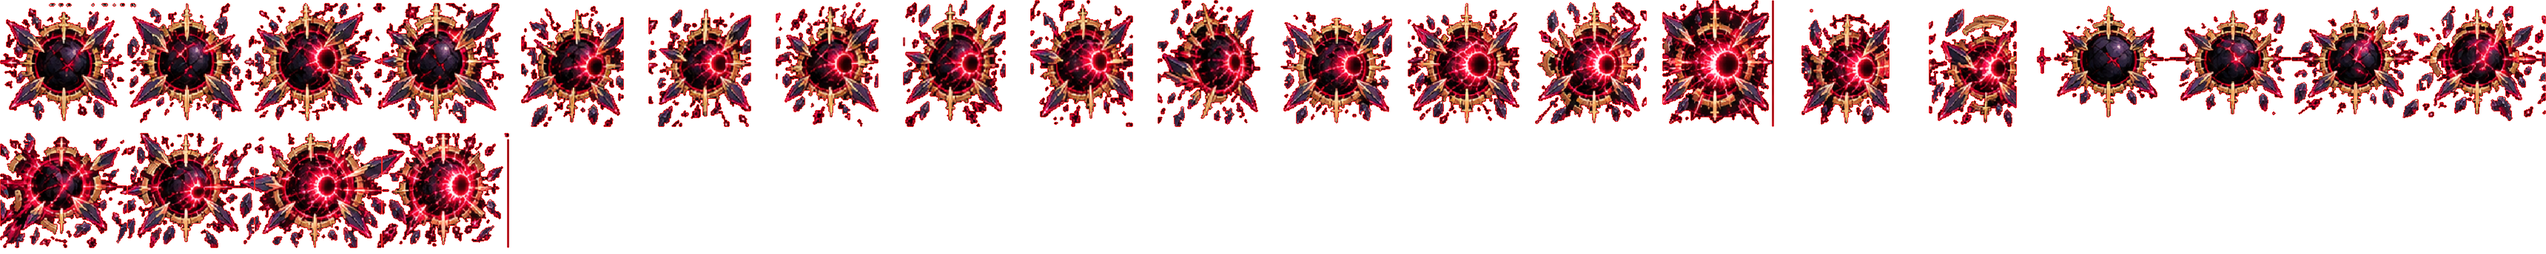
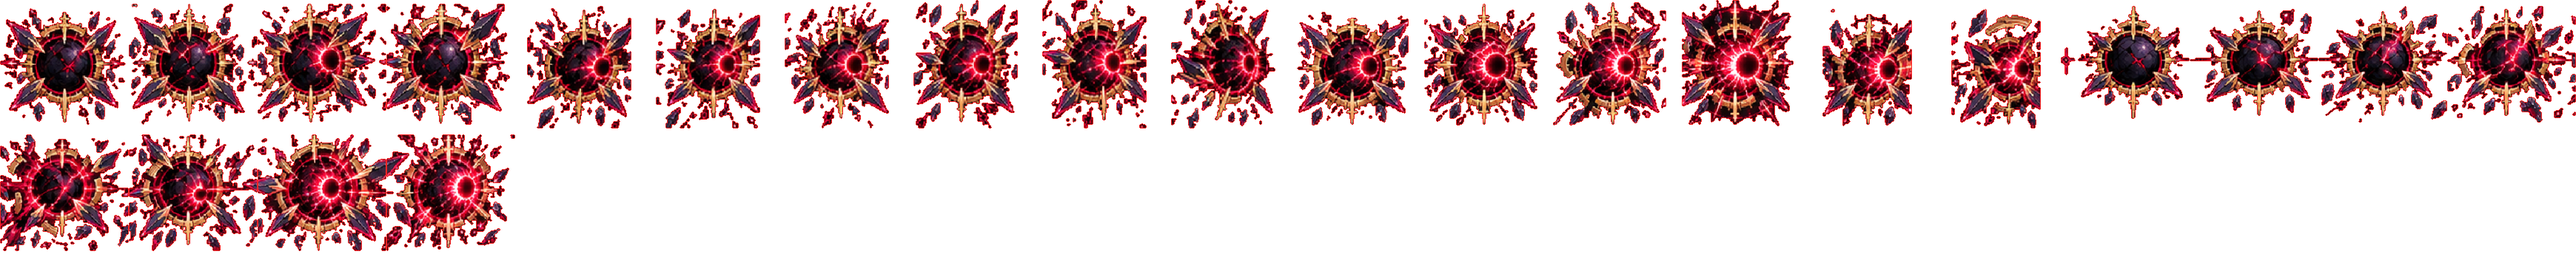
feat: 식광 본체 그림 찌꺼기 제거, 식광 패턴 연출(빨아들임·터짐·떨어지는 흑점·칼날 개화·핵 붕괴·침식권)

diff --git a/src/bosses/patterns.ts b/src/bosses/patterns.ts
@@ -1250,11 +1250,13 @@ class Bombard extends Timed {
   constructor(c: PatternCtx) {
     super(c);
     const shell = c.art('shell');
+    const meteor = c.art('meteor');
     for (let i = 0; i < c.v('shells'); i++) {
       const step = i * c.v('stepSec');
       this.at(step, () => {
         const at = predict(c, c.v('delaySec'), c.v('spread'));
         blast(c, at, c.v('radius'), c.v('delaySec'), c.v('damage'));
+        if (meteor) this.fall(meteor, at);
         if (shell) {
           const p = c.boss.pos();
           lob(c.host.scene, shell, { x: p.x, y: p.y - c.boss.radius() * 0.8 }, at, c.v('delaySec') * 0.95, 48, 14, undefined, 8, c.boss.fxColor);
@@ -1263,6 +1265,27 @@ class Bombard extends Timed {
         this.recoilAt = this.t;
       });
     }
+  }
+
+  /** 흑점: 하늘에서 예고 원으로 곧장 떨어지며 꼬리를 남긴다 */
+  private fall(ref: SpriteRef, at: Vec2): void {
+    const c = this.c;
+    const scene = c.host.scene;
+    const img = scene.add.sprite(at.x, at.y - 150, ref.spriteKey).setDepth(7).setBlendMode('ADD');
+    img.setDisplaySize(ref.size * 1.6, (ref.size * 1.6 * img.height) / Math.max(1, img.width));
+    let n = 0;
+    scene.tweens.add({
+      targets: img,
+      y: at.y,
+      duration: c.v('delaySec') * 1000 * 0.95,
+      ease: 'Quad.easeIn',
+      onUpdate: () => {
+        if (n++ % 2) return;
+        const d = scene.add.circle(img.x, img.y - 4, 3, c.boss.fxColor, 0.7).setDepth(6).setBlendMode('ADD');
+        scene.tweens.add({ targets: d, alpha: 0, scale: 0.3, duration: 220, onComplete: () => d.destroy() });
+      },
+      onComplete: () => img.destroy(),
+    });
   }
 
   protected override tick(): void {
@@ -1447,11 +1470,61 @@ class DoomFault extends Heavy {
 
 // ---------- 식광 ----------
 
-/** 그림자 추적: 발밑 장판이 잠깐 따라오다 고정되고, 고정된 뒤 터진다 */
-class ShadowChase extends Timed {
-  constructor(c: PatternCtx) {
+/**
+ * 구체 보스 몸짓 (식광): gatherSec 동안 둘레의 빛을 빨아들이며 움츠러들고(떨림),
+ * release() 때 부풀며 터졌다 돌아온다. 그 뒤엔 천천히 맥동한다.
+ */
+abstract class Orb extends Timed {
+  private releaseAt = -1;
+  private moteT = 0;
+
+  constructor(
+    c: PatternCtx,
+    private readonly gatherSec: number,
+    private readonly gatherR = 2.6,
+  ) {
     super(c);
+  }
+
+  protected release(size = 1): void {
+    const c = this.c;
+    this.releaseAt = this.t;
+    const p = c.boss.pos();
+    shockRing(c.host.scene, p, c.boss.radius() * 2.4 * size, c.boss.fxColor, 0.35, 3);
+    burst(c.host.scene, c.host.rng, p, c.boss.fxColor, Math.round(18 * size), [100, 200], 0.35, undefined, c.boss.radius() * 0.6);
+    shake(c.host.scene, size > 1 ? 'medium' : 'light');
+  }
+
+  protected override tick(dt: number): void {
+    const c = this.c;
+    c.boss.setVelocity(0, 0);
+    if (this.releaseAt >= 0) {
+      const r = 1 - easeOut((this.t - this.releaseAt) / 0.4);
+      c.boss.shape(1 + 0.18 * r, 1 + 0.18 * r, 0);
+      return;
+    }
+    if (this.t < this.gatherSec) {
+      const e = easeOut(this.t / this.gatherSec);
+      const wob = Math.sin(this.t * 55) * 0.02 * e;
+      c.boss.shape(1 - 0.1 * e + wob, 1 - 0.1 * e - wob, 0);
+      this.moteT -= dt;
+      if (this.moteT <= 0) {
+        this.moteT = 0.045;
+        motes(c.host.scene, c.host.rng, c.boss.pos(), c.boss.fxColor, 3, c.boss.radius() * this.gatherR, 0.35);
+      }
+      return;
+    }
+    const b = Math.sin(this.t * 5) * 0.025;
+    c.boss.shape(1 + b, 1 + b, 0);
+  }
+}
+
+/** 그림자 추적: 발밑 장판이 잠깐 따라오다 고정되고, 고정된 뒤 터진다 */
+class ShadowChase extends Orb {
+  constructor(c: PatternCtx) {
+    super(c, c.v('followSec') + c.v('lockSec'));
     c.host.addHazard(new FollowBlast(c.host.scene, c.host.playerPos(), c.v('radius'), c.v('speed'), c.v('followSec') + c.v('lockSec'), c.v('damage'), c.boss.color, c.v('lockSec'), { track: c.art('followTrack'), lock: c.art('followLock'), hit: c.art('followHit') }));
+    this.at(c.v('followSec') + c.v('lockSec'), () => this.release(0.8));
   }
 }
 
@@ -1468,6 +1541,8 @@ class AimFan extends Timed {
       const a = angleTo(p, c.host.playerPos());
       this.angle = a;
       fan(c, p, a, c.v('bullets'), c.v('spreadDeg'), c.v('speed'), c.v('range'), c.v('damage'), c.v('refractable') > 0);
+      const bloom = c.art('release');
+      if (bloom) playFx(c.host.scene, bloom, p.x, p.y, { w: c.boss.radius() * 3.2, depth: 6 });
       // 부채꼴로 쏟아지는 순간: 그 방향 불티 + 충격파
       burst(c.host.scene, c.host.rng, p, c.boss.fxColor, 14, [100, 190], 0.3, { angle: a, spread: rad(c.v('spreadDeg')) }, c.boss.radius() * 0.6);
       shockRing(c.host.scene, p, c.boss.radius() * 1.8, c.boss.fxColor, 0.25, 2);
@@ -1492,19 +1567,26 @@ class AimFan extends Timed {
   }
 }
 
-/** 광역 잠식·일식: 큰 폭발 예고, 표시된 안전 원 안에서만 피한다 */
-class SafeCircle extends Timed {
+/** 광역 잠식·일식: 큰 폭발 예고, 표시된 안전 원 안에서만 피한다. 방 전체의 빛을 빨아들였다가 터뜨린다 */
+class SafeCircle extends Orb {
   constructor(c: PatternCtx) {
-    super(c);
+    super(c, c.v('delaySec'), 5);
     safeBlast(c, c.v('safeZones'), c.v('safeRadius'), c.v('delaySec'), c.v('damage'));
+    this.at(c.v('delaySec'), () => this.release(1.6));
   }
 }
 
-/** 중력 붕괴: 플레이어를 끌어당긴 뒤 중심 폭발. 인력에 맞서 위험 반경 밖으로 */
-class GravityCollapse extends Timed {
+/** 중력 붕괴: 플레이어를 끌어당긴 뒤 중심 폭발. 인력에 맞서 위험 반경 밖으로. 빨아들이다 핵이 무너지며 터진다 */
+class GravityCollapse extends Orb {
   constructor(c: PatternCtx) {
-    super(c);
+    super(c, c.v('pullSec'), 4);
     c.host.addHazard(new DelayedBlast(c.host.scene, c.boss.pos(), c.v('radius'), c.v('pullSec'), c.v('damage'), c.boss.color, { warn: c.art('blastWarn'), hit: c.art('blastHit') }));
+    this.at(c.v('pullSec'), () => {
+      const p = c.boss.pos();
+      const core = c.art('collapse');
+      if (core) playFx(c.host.scene, core, p.x, p.y, { w: c.v('radius') * 2.2, depth: 7 });
+      this.release(1.5);
+    });
   }
 
   protected override tick(dt: number): void {

diff --git a/docs/ASSETS.md b/docs/ASSETS.md
@@ -8,7 +8,7 @@
 - 애니메이션(플레이어·적): `"anims": { "idle": { "from", "to", "fps" }, "move": { ... } }`(프레임 번호 0부터). 그림은 오른쪽을 보게 그리고(왼쪽이면 `"facing": "left"`), 움직이는 방향에 따라 좌우로 뒤집는다.
 - item·icon은 게임 화면이 아니라 카드·인벤토리·HUD 아이콘이다. tile은 한 장을 반복해서 깐다(문은 잠겼을 때만 보인다).
 
-전체 497개 · 그림 있음 484개
+전체 501개 · 그림 있음 488개
 
 ## player (3)
 
@@ -64,7 +64,7 @@
 | 키 | 이름 | 권장 크기 | 기준점 | 지금 색 | 그림 |
 | --- | --- | --- | --- | --- | --- |
 | `fx_golem_laser` | 고대병기의 코어 (fx) | 12×12 | center | #a05aff | mku/fx_golem_laser.png (1프레임) |
-| `fx_eclipse_meteor` | 식광의 핵 (fx) | 10×10 | center | #ff3a4a | mku/fx_eclipse_meteor.png (1프레임) |
+| `fx_eclipse_meteor` | 식광의 핵 (fx) 외 1곳 | 10×10 | center | #ff3a4a | mku/fx_eclipse_meteor.png (1프레임) |
 | `projectile_arrow` | 곡궁 (fx) | 3×3 | center | #c8a070 | mku/projectile_arrow.png (1프레임) |
 | `projectile_zephyr_arrow` | 서풍 (fx) | 3×3 | center | #7ae8f0 | mku/projectile_zephyr_arrow.png (1프레임) |
 | `fx_soul_burst` | 소울 칼리버 (fx) | 20×20 | center | #c060ff | mku/fx_soul_burst.png (1프레임) |
@@ -471,7 +471,7 @@
 | `tile_floor_c3_v1` | 방 바닥 (3장 변형) | 16×16 | center | #1a0c0e | mku/tile_floor_c3_v1.png (1프레임) |
 | `tile_floor_c3_v2` | 방 바닥 (3장 변형) | 16×16 | center | #1a0c0e | mku/tile_floor_c3_v2.png (1프레임) |
 
-## fx (96)
+## fx (100)
 
 | 키 | 이름 | 권장 크기 | 기준점 | 지금 색 | 그림 |
 | --- | --- | --- | --- | --- | --- |
@@ -532,6 +532,10 @@
 | `fx_golem_fault_hit` | 마기골렘 (doomFault.blastHit) | 25×25 | center | #a03ae0 | mku/fx_golem_fault_hit.png (1프레임) |
 | `fx_golem_rage_aura` | 마기골렘 (layer) | 45×45 | center | #a03ae0 | mku/fx_golem_rage_aura.png (1프레임) |
 | `fx_golem_rage_core` | 마기골렘 (layer) | 20×20 | center | #a03ae0 | mku/fx_golem_rage_core.png (1프레임) |
+| `fx_eclipse_light_rain` | 식광 (sunspotFall.blastHit) | 40×40 | center | #ff3a4a | mku/fx_eclipse_light_rain.png (4프레임) |
+| `fx_eclipse_blade_bloom` | 식광 (orbitCut.release) 외 1곳 | 40×40 | center | #ff3a4a | mku/fx_eclipse_blade_bloom.png (4프레임) |
+| `fx_eclipse_core_collapse` | 식광 (gravityCollapse.collapse) | 45×45 | center | #ff3a4a | mku/fx_eclipse_core_collapse.png (4프레임) |
+| `fx_eclipse_erosion_ring` | 식광 (wideErosion.safeHit) | 80×80 | center | #ff3a4a | mku/fx_eclipse_erosion_ring.png (4프레임) |
 | `fx_eclipse_warning` | 식광 (blastWarn) | 30×30 | center | #ff3a4a | mku/fx_eclipse_warning.png (3프레임) |
 | `fx_eclipse_impact` | 식광 (blastHit) | 35×35 | center | #ff3a4a | mku/fx_eclipse_impact.png (2프레임) |
 | `fx_eclipse_blade` | 식광 (bullet) | 7×7 | center | #ff3a4a | mku/fx_eclipse_blade.png (4프레임) |

diff --git a/docs/DECISIONS.md b/docs/DECISIONS.md
@@ -685,3 +685,5 @@
 - 마기카이저 회전·불안정 레이저: 광선 그림이 초승달 베기(fx_kaiser_sweep)·부채꼴(fx_kaiser_sweep_warn)이라 길게 늘이면 보이지 않았다. 기본 레이저 그림(fx_kaiser_laser·laser_warn)을 쓰고, 두 그림은 시작할 때 보스 자리 이펙트(.cast)로 옮겼다.
 - 적 유도 미사일: 휘는 동안 그림 방향을 속도 방향에 맞춘다(전에는 쏜 방향 그대로라 옆으로 날아가 보였다).
 - 마기카이저 지열 분출 폭발: 원본 vfx.kaiser.debris가 네모로 잘린 조각이라 빼고 어깨 미사일 집속 폭발(fx_kaiser_cluster)을 쓴다. public/assets/mku/fx_kaiser_debris.png 파일은 남아 있다(어디서도 쓰지 않음).
+- 식광 본체 그림 찌꺼기: 원본 프레임에 붙은 1~2px 직선(돌진 준비 4번째 프레임 몸 옆에 붙은 세로선, 전환 8번째 세로선)과 대기 1번째 프레임 위의 글자 점 무리를 build-art cleanBossFrame으로 지운다(541px). 몸 둘레의 일부러 그린 파편·전환 때 에너지 줄기는 둔다.
+- 식광 패턴: Orb 바탕 — 모으는 동안 둘레의 빛을 빨아들이며 움츠러들고(떨림), 터질 때 부풀며 충격파·불티. 그림자 추적·광역 잠식·일식·중력 붕괴가 쓴다. 흑점 낙하는 하늘에서 예고 원으로 곧장 떨어지는 흑점(fx_eclipse_meteor, 빛 꼬리) + 흑일의 낙광우 적중. 궤도 절단·일식의 파편은 쏠 때 식광 칼날 개화(AimFan release). 중력 붕괴 끝은 흑일 핵 붕괴, 광역 잠식 적중은 개기식 침식권.
